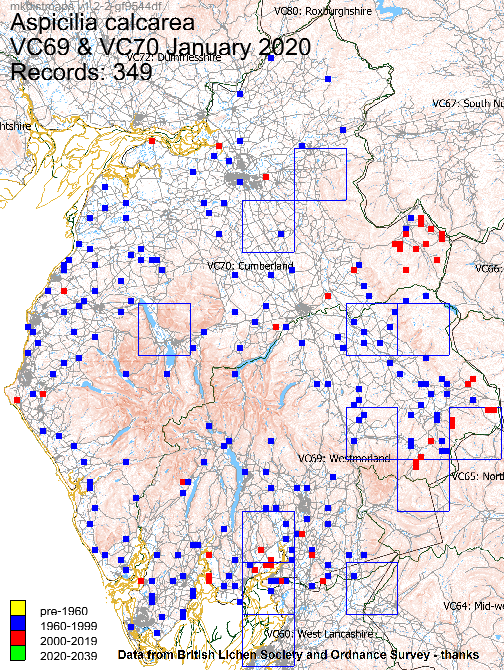
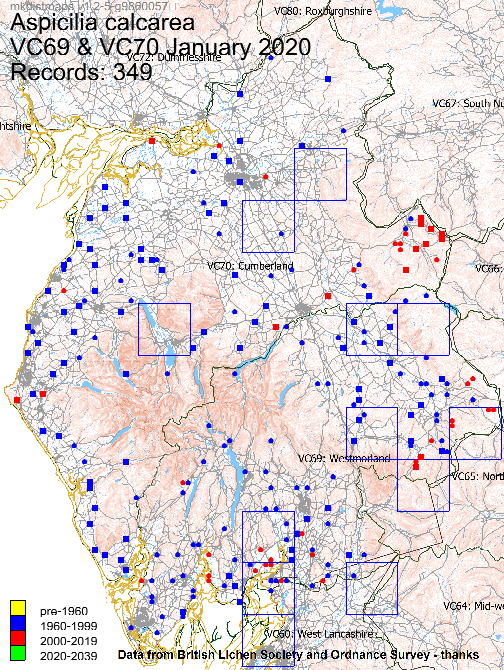
Make monads with 1 record circles again

diff --git a/mkdistmaps.js b/mkdistmaps.js
@@ -417,11 +417,12 @@ async function importComplete(rowCount) {
       if (SCALE.gridreffigs === 4 && box.length === 4) {
         ctx.strokeRect(boxloc.x, boxloc.y, boxwidth2, boxwidth2)
       } else {
-        if (boxdata.count === 1 && config.useMonadsNotHectads>1) {
+        if (boxdata.count === 1 && config.useMonadsNotHectads) {
           ctx.beginPath()
           ctx.arc(boxloc.x + boxwidthhalf, boxloc.y + boxwidthhalf, boxwidthhalf, 0, 2 * Math.PI, false) // Math.PI
           ctx.closePath()
           ctx.fill()
+
         } else {
           ctx.fillRect(boxloc.x, boxloc.y, boxwidth, boxwidth)
         }
